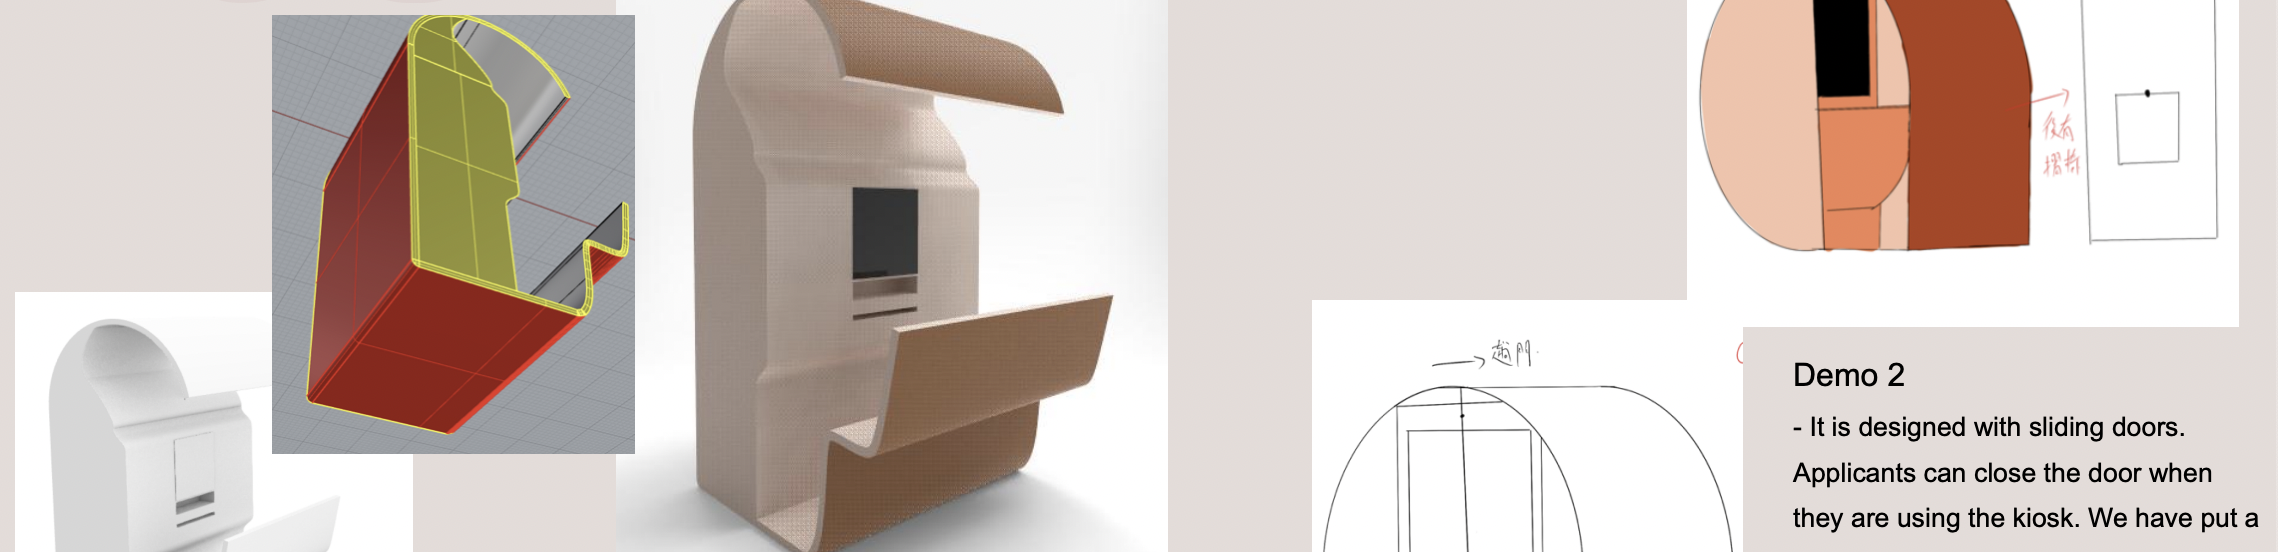
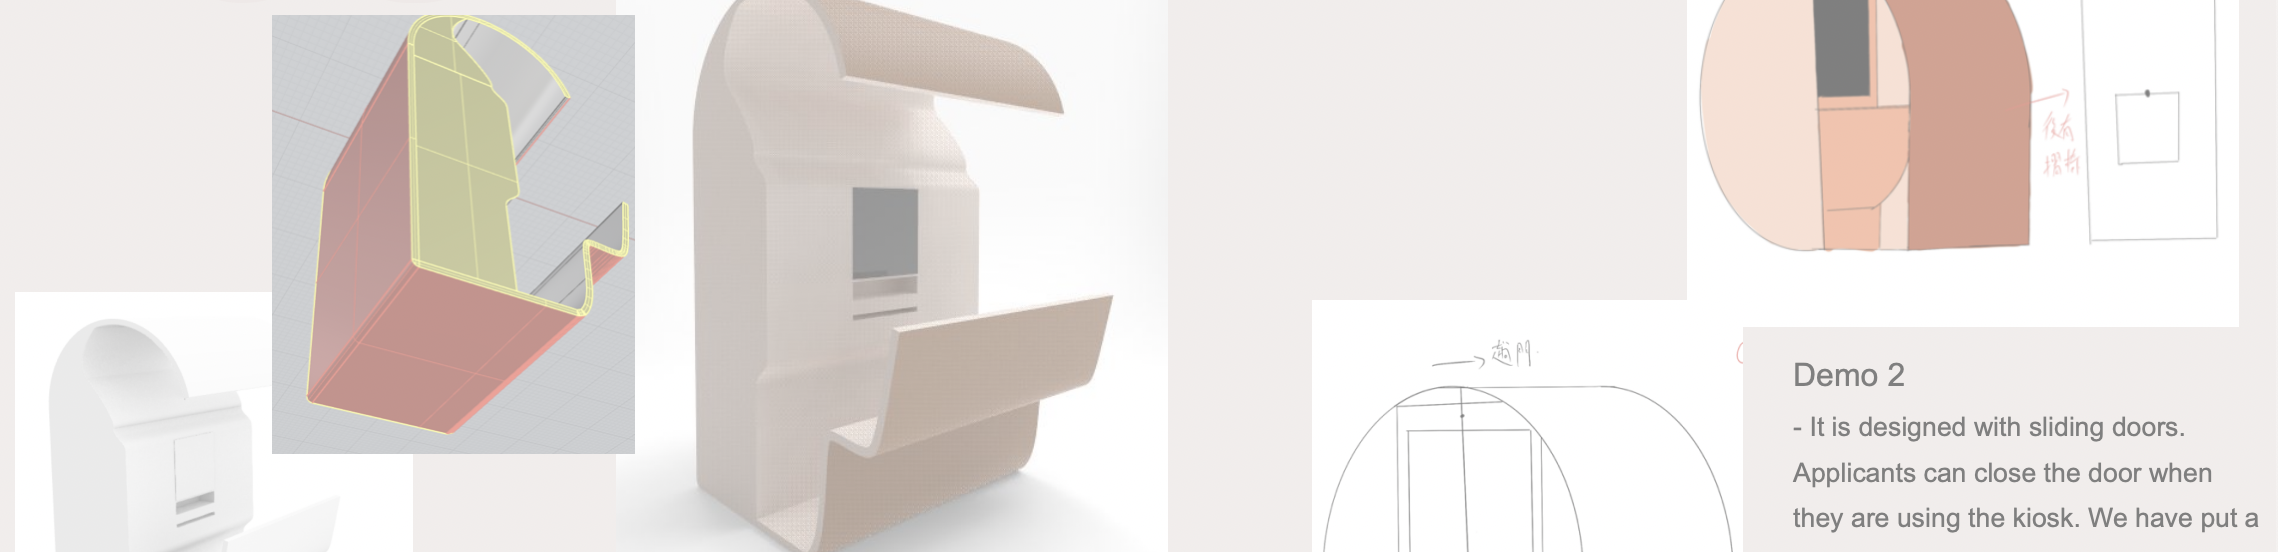
enter

diff --git a/createform.html b/createform.html
@@ -280,9 +280,9 @@
 
                                             <tr>
                                                 <td class="drag-handler"></td>
-                                                <td class="recipe-table__cell">
-                                                    <select class="form-select form-select-sm"
-                                                        aria-label=".form-select-sm example" id="arraySelect"
+                                                <td class="recipe-table__cell2">
+                                                    <select class="form-select form-select-sm form-item-focus"
+                                                         id="arraySelect"
                                                         onchange="changeInput('arraySelect', 'arrayInput')" style="height: 100px; min-height:100px;" required>
                                                         <option value="" selected hidden>Question Types</option>
                                                         <option value="0">Option</option>
@@ -308,11 +308,11 @@
                                                     </select>
                                                 </td>
                                                 <td class="recipe-table__cell">
-                                                    <textarea class="form-control form-control-sm" id="" rows="1"
+                                                    <textarea class="form-control form-control-sm form-item-focus" id="" rows="1"
                                                     placeholder="Question" style="height: 100px; min-height:100px;" required></textarea>
                                                 </td>
                                                 <td class="recipe-table__cell">
-                                                    <textarea class="form-control form-control-sm" id="" rows="1"
+                                                    <textarea class="form-control form-control-sm form-item-focus" id="" rows="1"
                                                         placeholder="Description (Optional)" style="height: 100px; min-height:100px;" required></textarea>
                                                 </td>
                                                 <td class="recipe-table__cell">
@@ -326,7 +326,7 @@
                                                 <td class="drag-handler"></td>
                                                 <td class="recipe-table__cell">
                                                     <select class="form-select form-select-sm"
-                                                        aria-label=".form-select-sm example" id="arraySelect2"
+                                                         id="arraySelect2"
                                                         onchange="changeInput('arraySelect2', 'arrayInput2')" style="height: 100px; min-height:100px;" required>
                                                         <option value="" selected hidden>Question Types</option>
                                                         <option value="0">Option</option>
@@ -370,7 +370,7 @@
                                                 <td class="drag-handler"></td>
                                                 <td class="recipe-table__cell">
                                                     <select class="form-select form-select-sm"
-                                                        aria-label=".form-select-sm example" id="arraySelect3"
+                                                         id="arraySelect3"
                                                         onchange="changeInput('arraySelect3', 'arrayInput3')" style="height: 100px; min-height:100px;" required>
                                                         <option value="" selected hidden>Question Types</option>
                                                         <option value="0">Option</option>
@@ -414,7 +414,7 @@
                                                 <td class="drag-handler"></td>
                                                 <td class="recipe-table__cell">
                                                     <select class="form-select form-select-sm"
-                                                        aria-label=".form-select-sm example" id="arraySelect4"
+                                                         id="arraySelect4"
                                                         onchange="changeInput('arraySelect4', 'arrayInput4')" style="height: 100px; min-height:100px;" required>
                                                         <option value="" selected hidden>Question Types</option>
                                                         <option value="0">Option</option>
@@ -458,7 +458,7 @@
                                                 <td class="drag-handler"></td>
                                                 <td class="recipe-table__cell">
                                                     <select class="form-select form-select-sm"
-                                                        aria-label=".form-select-sm example" id="arraySelect5"
+                                                         id="arraySelect5"
                                                         onchange="changeInput('arraySelect5', 'arrayInput5')" style="height: 100px; min-height:100px;" required>
                                                         <option value="" selected hidden>Question Types</option>
                                                         <option value="0">Option</option>
@@ -502,7 +502,7 @@
                                                 <td class="drag-handler"></td>
                                                 <td class="recipe-table__cell">
                                                     <select class="form-select form-select-sm"
-                                                        aria-label=".form-select-sm example" id="arraySelect6"
+                                                         id="arraySelect6"
                                                         onchange="changeInput('arraySelect6', 'arrayInput6')" style="height: 100px; min-height:100px;" required>
                                                         <option value="" selected hidden>Question Types</option>
                                                         <option value="0">Option</option>
@@ -546,7 +546,7 @@
                                                 <td class="drag-handler"></td>
                                                 <td class="recipe-table__cell">
                                                     <select class="form-select form-select-sm"
-                                                        aria-label=".form-select-sm example" id="arraySelect7"
+                                                         id="arraySelect7"
                                                         onchange="changeInput('arraySelect7', 'arrayInput7')" style="height: 100px; min-height:100px;" required>
                                                         <option value="" selected hidden>Question Types</option>
                                                         <option value="0">Option</option>
@@ -590,7 +590,7 @@
                                                 <td class="drag-handler"></td>
                                                 <td class="recipe-table__cell">
                                                     <select class="form-select form-select-sm"
-                                                        aria-label=".form-select-sm example" id="arraySelect8"
+                                                         id="arraySelect8"
                                                         onchange="changeInput('arraySelect8', 'arrayInput8')" style="height: 100px; min-height:100px;" required>
                                                         <option value="" selected hidden>Question Types</option>
                                                         <option value="0">Option</option>
@@ -634,7 +634,7 @@
                                                 <td class="drag-handler"></td>
                                                 <td class="recipe-table__cell">
                                                     <select class="form-select form-select-sm"
-                                                        aria-label=".form-select-sm example" id="arraySelect9"
+                                                         id="arraySelect9"
                                                         onchange="changeInput('arraySelect9', 'arrayInput9')" style="height: 100px; min-height:100px;" required>
                                                         <option value="" selected hidden>Question Types</option>
                                                         <option value="0">Option</option>
@@ -678,7 +678,7 @@
                                                 <td class="drag-handler"></td>
                                                 <td class="recipe-table__cell">
                                                     <select class="form-select form-select-sm"
-                                                        aria-label=".form-select-sm example" id="arraySelect10"
+                                                         id="arraySelect10"
                                                         onchange="changeInput('arraySelect10', 'arrayInput10')" style="height: 100px; min-height:100px;" required>
                                                         <option value="" selected hidden>Question Types</option>
                                                         <option value="0">Option</option>
@@ -722,7 +722,7 @@
                                                 <td class="drag-handler"></td>
                                                 <td class="recipe-table__cell">
                                                     <select class="form-select form-select-sm"
-                                                        aria-label=".form-select-sm example" id="arraySelect11"
+                                                         id="arraySelect11"
                                                         onchange="changeInput('arraySelect11', 'arrayInput11')" style="height: 100px; min-height:100px;" required>
                                                         <option value="" selected hidden>Question Types</option>
                                                         <option value="0">Option</option>
@@ -766,7 +766,7 @@
                                                 <td class="drag-handler"></td>
                                                 <td class="recipe-table__cell">
                                                     <select class="form-select form-select-sm"
-                                                        aria-label=".form-select-sm example" id="arraySelect12"
+                                                         id="arraySelect12"
                                                         onchange="changeInput('arraySelect12', 'arrayInput12')" style="height: 100px; min-height:100px;" required>
                                                         <option value="" selected hidden>Question Types</option>
                                                         <option value="0">Option</option>
@@ -824,7 +824,7 @@
                     <td class="drag-handler"></td>
                     <td class="recipe-table__cell">
                         <select class="form-select form-select-sm"
-                            aria-label=".form-select-sm example" id="{arraySelectID}"
+                             id="{arraySelectID}"
                             onchange="changeInput('{arraySelectID}', '{arrayInputID}')" style="height: 100px; min-height:100px;" required>
                             <option value="" selected hidden>Question Types</option>
                             <option value="0">Option</option>
@@ -867,7 +867,7 @@
             </script>
             <!-- addInput -->
             <script id="addInput" type="text/template">
-                    <input class="form-control form-control-sm" list="datalistOptions"
+                    <input class="form-control form-control-sm form-item-focus" list="datalistOptions"
                     id="{arrayInputChild}" placeholder="Array" style="height: 100px; min-height:100px;" required>
                     <datalist id="datalistOptions">
                     <option value="Living with family, Property with mortgage, Property without

diff --git a/css/createform_form.css b/css/createform_form.css
@@ -123,7 +123,7 @@ h3 {
   position: absolute;
   left: -9vw;
   top: 0.4vw;
-  transition: all 0.6s ease;
+  transition: all 1s ease;
 }
 .wizard > .steps li.first a {
   background: #fff;
@@ -209,7 +209,6 @@ h3 {
   height: 37px;
   border: none;
   border-bottom: 2px solid #e6e6e6;
-  width: 100%;
   color: #666;
 }
 .form-control:focus {
@@ -374,11 +373,13 @@ form system – mobile layout
     padding: 0.5vw 0vw 0vw 0vw;
   }
   .wizard > .steps li a {
+    width: 17.5vw;
     min-height: 10px;
   }
   /* line */
   .wizard > .steps li a:after {
     min-height: 3px;
+    top: 0.5vw;
   }
   .actions {
     right: 50%;
@@ -392,17 +393,7 @@ form system – mobile layout
 question system
 
 */
-
-.vertical-align-center {
-  vertical-align: top;
-  text-align: center;
-}
-
-.recipe {
-  padding: 1em;
-}
 .recipe__ingredients {
-  float: left;
   width: auto;
 }
 .recipe-table {
@@ -417,6 +408,11 @@ question system
 .recipe-table__cell {
   vertical-align: top;
   width: auto;
+  padding: 3px 5px 75px 0px;
+}
+.recipe-table__cell2 {
+  vertical-align: top;
+  width: 15vw;
   padding: 3px 5px;
 }
 
@@ -444,7 +440,8 @@ question system
   border-bottom-right-radius: 1em;
   border-bottom-left-radius: 1em;
   background: #987468;
-  height: 10vh;
+  height: 5vw;
+  min-height: 50px;
   line-height: 1.5em;
 }
 .recipe-table__add-row-btn:hover {
@@ -533,4 +530,15 @@ question system
     #bab86c 18px,
     #bab86c 22px
   );
+}
+
+.form-item-focus:focus {
+  width: 80%;
+  position: absolute;
+  left: 10%;
+}
+
+.vertical-align-center {
+  vertical-align: top;
+  text-align: center;
 }

diff --git a/css/main.css b/css/main.css
@@ -18,7 +18,6 @@ footer {
 
 .banner-smartform {
   background-image: url("../img/banner.png");
-  opacity: 50%;
   width: 100%;
   height: 10vw;
   background-color: #cccccc;
@@ -28,7 +27,6 @@ footer {
 }
 .banner-smartform2 {
   background-image: url("../img/banner2.png");
-  opacity: 50%;
   width: 100%;
   height: 10vw;
   background-color: #cccccc;
@@ -38,7 +36,6 @@ footer {
 }
 .banner-smartform3 {
   background-image: url("../img/banner3.png");
-  opacity: 50%;
   width: 100%;
   height: 10vw;
   background-color: #cccccc;

diff --git a/form.html b/form.html
@@ -63,7 +63,7 @@
       <div class="container">
         <div class="row">
           <div class="col">
-            <h1>Get started</h1>
+            <br><h1>Get started</h1>
             <p class="fs-5 col-md-8">Quickly and easily get started with Smart Form.</p>
             <div class="mb-5">
               <a href="createform.html" class="btn btn-primary btn-lg px-4 btn-smartform3">Create

diff --git a/signup.html b/signup.html
@@ -43,6 +43,15 @@
             padding: 4px 10px;
             /* border: none; */
         }
+
+        @media (max-width: 1280px) {
+            .form2 {
+                border: none;
+                border-radius: 15px;
+                background-color: #FBF9F8;
+                margin: 3.5vw 7.5vw;
+            }
+        }
     </style>
 </head>
 

diff --git a/signin.html b/signin.html
@@ -36,6 +36,15 @@
         .container {
             padding: 12px 40px;
         }
+
+        @media (max-width: 1280px) {
+            .form2 {
+                border: none;
+                border-radius: 15px;
+                background-color: #FBF9F8;
+                margin: 3.5vw 10vw;
+            }
+        }
     </style>
 </head>
 
